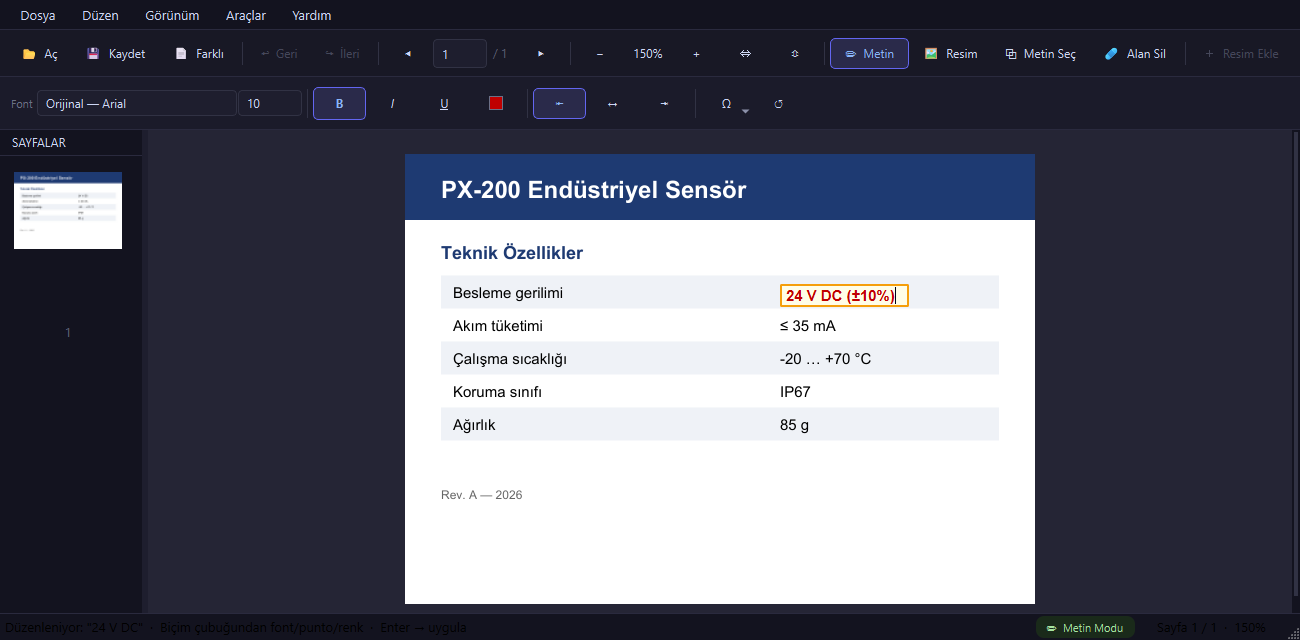
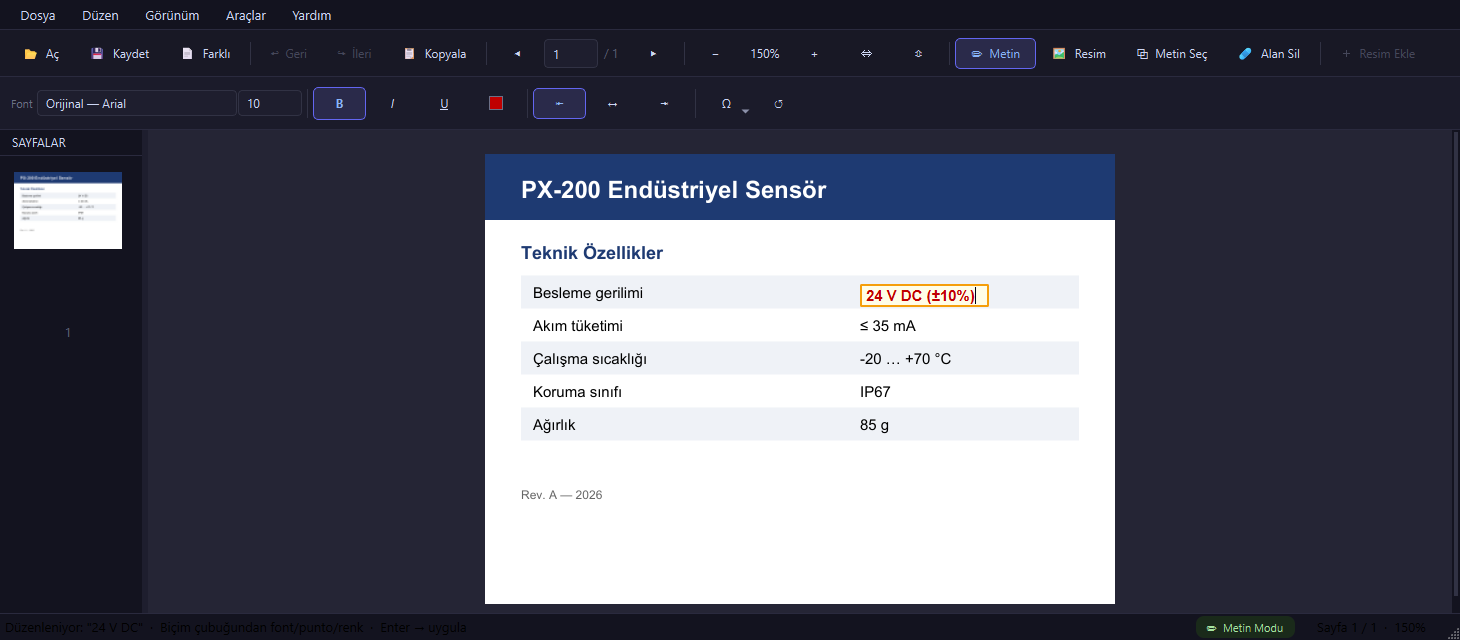
Klavye kısayolları düzeltildi, Kopyala düğmesi, dar pencere araç çubuğu — v1.4
- Kısayollar hem menüde hem araç çubuğunda tanımlı olduğu için Qt onları
  "belirsiz" sayıyor ve hiçbirini tetiklemiyordu (Ctrl+S, Ctrl+Z, Ctrl+O,
  Ctrl+1..4 dahil 14 kısayol v1.0'dan beri çalışmıyordu). Araç çubuğu artık
  menüde olan kısayolu sadece ipucunda gösteriyor.
- Araç çubuğuna "Kopyala" düğmesi
- Pencere daraldıkça önce ikincil düğmeler, sonra mod düğmeleri sadece ikon
  gösteriyor; yazılar artık "…det" gibi kırpılmıyor
- README: Kopyala düğmesi, güncel ekran görüntüleri

diff --git a/main.py b/main.py
@@ -80,6 +80,7 @@ QToolButton:hover   { background: #313244; }
 QToolButton:pressed { background: #45475a; }
 QToolButton:checked { background: #2a2a4a; border: 1px solid #6366f1; color: #89b4fa; }
 QToolButton:disabled { color: #45475a; }
+QToolBar[compact="true"] QToolButton { padding: 5px 6px; min-width: 20px; }
 
 QStatusBar {
     background: #13131f;
@@ -378,11 +379,32 @@ class MainWindow(QMainWindow):
         tb.setIconSize(QSize(16, 16))
         tb.setToolButtonStyle(Qt.ToolButtonStyle.ToolButtonTextBesideIcon)
         self.addToolBar(tb)
+        self._tb = tb
+        self._tb_labels: list[tuple] = []      # (action, tam etiket, kademe) — dar pencerede kısaltmak için
+        self._tb_widths: dict[int, int] = {}   # sıkıştırma kademesi → araç çubuğu genişliği
+        self._tb_level = 0
 
-        def act(label, shortcut=None, slot=None, checkable=False, enabled=True):
+        # Menüde zaten tanımlı kısayollar. Aynı kısayol iki QAction'da olunca Qt onu
+        # "belirsiz" sayar ve HİÇBİRİNİ tetiklemez — v1.0'dan beri Ctrl+S, Ctrl+Z,
+        # Ctrl+O … bu yüzden çalışmıyordu. Toolbar'da sadece ipucunda gösteriyoruz.
+        taken = {a.shortcut().toString() for a in self.findChildren(QAction)
+                 if not a.shortcut().isEmpty()}
+
+        # level: pencere daralınca bu düğmenin yazısı hangi kademede gizlenir
+        #   1 = ilk (dosya/geri al gibi ikonu tanıdık olanlar), 2 = en son (mod düğmeleri)
+        def act(label, shortcut=None, slot=None, checkable=False, enabled=True, tip=None, level=1):
             a = QAction(label, self)
+            name = label.split("  ")[-1]
             if shortcut:
-                a.setShortcut(QKeySequence(shortcut))
+                ks = QKeySequence(shortcut)
+                if ks.toString() not in taken:
+                    a.setShortcut(ks)
+                    taken.add(ks.toString())
+                a.setToolTip(f"{tip or name}  ({ks.toString(QKeySequence.SequenceFormat.NativeText)})")
+            else:
+                a.setToolTip(tip or name)
+            if "  " in label:
+                self._tb_labels.append((a, label, level))
             if slot:
                 a.triggered.connect(slot)
             if checkable:
@@ -401,6 +423,8 @@ class MainWindow(QMainWindow):
         # Undo / Redo
         self.act_undo_tb = act("↩  Geri",  "Ctrl+Z", self._undo,  enabled=False)
         self.act_redo_tb = act("↪  İleri", "Ctrl+Y", self._redo,  enabled=False)
+        self.act_copy_tb = act("📋  Kopyala", "Ctrl+C", self._copy_current, enabled=False,
+                               tip="Kopyala — tıklanan metni ya da seçili alanı panoya alır")
 
         tb.addSeparator()
 
@@ -437,13 +461,13 @@ class MainWindow(QMainWindow):
 
         # Mod
         self.act_text_tb = act("✏  Metin",  "Ctrl+1",
-                                lambda: self._set_mode("text"), checkable=True)
+                                lambda: self._set_mode("text"), checkable=True, level=2)
         self.act_img_tb  = act("🖼  Resim",  "Ctrl+2",
-                                lambda: self._set_mode("image"), checkable=True)
+                                lambda: self._set_mode("image"), checkable=True, level=2)
         self.act_sel_tb  = act("⧉  Metin Seç", "Ctrl+3",
-                                lambda: self._set_mode("select"), checkable=True)
+                                lambda: self._set_mode("select"), checkable=True, level=2)
         self.act_erase_tb = act("🩹  Alan Sil", "Ctrl+4",
-                                lambda: self._set_mode("erase"), checkable=True)
+                                lambda: self._set_mode("erase"), checkable=True, level=2)
         self.act_text_tb.setChecked(True)
 
         tb.addSeparator()
@@ -556,7 +580,7 @@ class MainWindow(QMainWindow):
 
         self.setWindowTitle(f"PDFim — {name}")
         for a in (self.act_save, self.act_save_tb, self.act_saveas, self.act_saveas_tb,
-                  self.act_copy, self.act_select_all):
+                  self.act_copy, self.act_select_all, self.act_copy_tb):
             a.setEnabled(True)
 
         # Undo/redo sıfırla
@@ -1109,12 +1133,45 @@ class MainWindow(QMainWindow):
         QMessageBox.about(
             self, "PDFim Hakkında",
             "<h2 style='color:#cdd6f4; margin:0'>PDFim</h2>"
-            "<p style='color:#a6adc8'>Sürüm 1.3  —  PDF Editörü</p>"
+            "<p style='color:#a6adc8'>Sürüm 1.4  —  PDF Editörü</p>"
             "<p style='color:#6c7086; font-size:12px'>"
             "PyMuPDF + PyQt6 ile geliştirildi.<br>"
             "Metin düzenleme · Biçim çubuğu · Metin kopyalama · Resim hizalama · Orijinal font desteği"
             "</p>",
         )
+
+    def resizeEvent(self, event):
+        super().resizeEvent(event)
+        self._apply_toolbar_density()
+
+    def _set_toolbar_level(self, level: int):
+        """0 = tüm yazılar, 1 = dosya/düzen düğmeleri sadece ikon, 2 = hepsi ikon + dar boşluk"""
+        for a, label, lvl in self._tb_labels:
+            a.setText(label.split("  ")[0] if level >= lvl else label)
+        compact = "true" if level >= 2 else "false"
+        if self._tb.property("compact") != compact:
+            self._tb.setProperty("compact", compact)
+            for w in self._tb.findChildren(QWidget):   # stylesheet'teki [compact] seçicisi yeniden uygulansın
+                w.style().unpolish(w); w.style().polish(w)
+        self._tb_level = level
+
+    def _apply_toolbar_density(self):
+        """Pencere daraldıkça önce ikincil düğmelerin, sonra mod düğmelerinin yazısını gizle.
+        Qt aksi hâlde yazıları "…det" gibi kırpıyordu; tam ad ipucunda (tooltip) kalır."""
+        if not getattr(self, "_tb_labels", None) or not self.isVisible():
+            return
+        if not self._tb_widths:                   # her kademenin genişliğini bir kez ölç
+            for level in (0, 1, 2):
+                self._set_toolbar_level(level)
+                self._tb_widths[level] = self._tb.sizeHint().width()
+        avail = self.width() - 12
+        level = next((lv for lv in (0, 1) if self._tb_widths[lv] <= avail), 2)
+        if level != self._tb_level or not self._tb.property("compact"):
+            self._set_toolbar_level(level)
+
+    def showEvent(self, event):
+        super().showEvent(event)
+        self._apply_toolbar_density()
 
     def closeEvent(self, event):
         # Kayıt başarısız olursa pencere açık kalır — eskiden hata mesajından

diff --git a/README.md b/README.md
@@ -40,8 +40,8 @@ Bir metin düzenlenirken üstteki ikinci satır etkinleşir:
 
 ![Tablo seçip kopyalama](docs/metin-kopyalama.png)
 
-- **Metin modunda:** bir metne tıklayıp **Ctrl+C**'ye basın ya da **sağ tıklayın** → *Kopyala*,
-  *Satırın tamamını kopyala*, *Sayfadaki tüm metni kopyala*.
+- **Metin modunda:** bir metne tıklayıp araç çubuğundaki **📋 Kopyala** düğmesine ya da **Ctrl+C**'ye
+  basın. **Sağ tık** menüsünde *Kopyala*, *Satırın tamamını kopyala* ve *Sayfadaki tüm metni kopyala* var.
 - **Metin Seç modunda (Ctrl+3):** bir alanı sürükleyerek seçin; seçilen kelimeler vurgulanır ve
   otomatik kopyalanır. **Ctrl+A** ekrandaki sayfanın tamamını seçer.
 - Tablolar sütunlar arasında **Tab** karakteriyle kopyalanır; Excel'e yapıştırınca hücrelere dağılır.
@@ -56,6 +56,7 @@ Bir metin düzenlenirken üstteki ikinci satır etkinleşir:
 ### Diğer
 - **Alan Sil (Ctrl+4):** seçilen alanın üzeri beyazla kapatılır.
 - Geri al / yinele (son 20 işlem), son açılan dosyalar, sayfa küçük resimleri.
+- Pencere daraldığında araç çubuğu düğmeleri sadece ikon gösterir; üzerine gelince adı ve kısayolu görünür.
 - Güvenli kayıt: kayıt yarıda kesilirse orijinal dosya bozulmaz. Dosya başka bir programda
   (ör. Adobe) açıksa bunu söyler ve *Farklı Kaydet* önerir.
 
